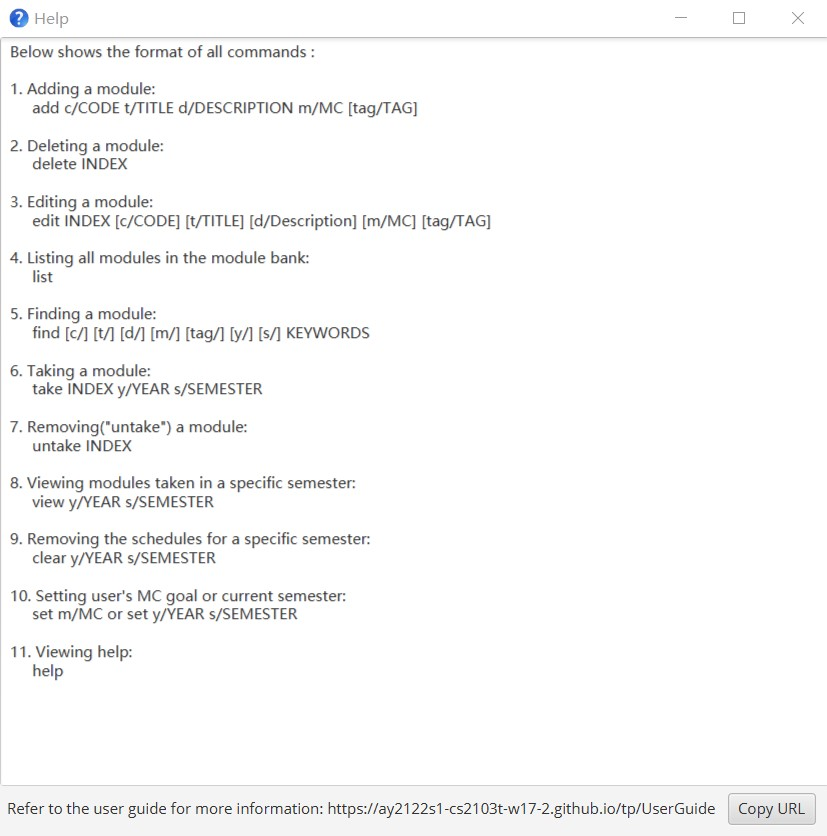
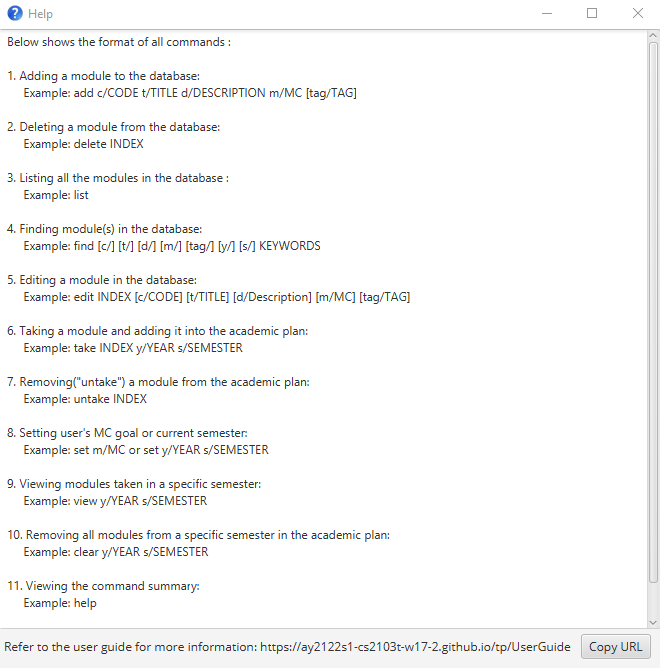
Update UG for submission

diff --git a/src/main/java/seedu/tracker/ui/HelpWindow.java b/src/main/java/seedu/tracker/ui/HelpWindow.java
@@ -19,32 +19,34 @@ import seedu.tracker.commons.core.LogsCenter;
  */
 public class HelpWindow extends UiPart<Stage> {
 
-    public static final String ADD_COMMAND = "Adding a module:\n     add c/CODE t/TITLE d/DESCRIPTION m/MC [tag/TAG]";
-    public static final String CLEAR_COMMAND = "Removing the schedules for a specific semester:\n     "
-            + "clear y/YEAR s/SEMESTER";
+    public static final String ADD_COMMAND = "Adding a module to the database:\n     Example: add c/CODE t/TITLE d/DESCRIPTION m/MC [tag/TAG]";
+    public static final String CLEAR_COMMAND = "Removing all modules from a specific semester in the academic plan:\n     "
+            + "Example: clear y/YEAR s/SEMESTER";
     public static final String COMMAND_FORMAT = "Below shows the format of all commands : ";
-    public static final String DELETE_COMMAND = "Deleting a module:\n     delete INDEX";
-    public static final String EDIT_COMMAND = "Editing a module:\n     "
-            + "edit INDEX [c/CODE] [t/TITLE] [d/Description] [m/MC] [tag/TAG]";
-    public static final String FIND_COMMAND = "Finding a module:\n     "
-            + "find [c/] [t/] [d/] [m/] [tag/] [y/] [s/] KEYWORDS";
-    public static final String HELP_COMMAND = "Viewing help:\n     help";
+    public static final String DELETE_COMMAND = "Deleting a module from the database:\n     Example: delete INDEX";
+    public static final String EDIT_COMMAND = "Editing a module in the database:\n     "
+            + "Example: edit INDEX [c/CODE] [t/TITLE] [d/Description] [m/MC] [tag/TAG]";
+    public static final String FIND_COMMAND = "Finding module(s) in the database:\n     "
+            + "Example: find [c/] [t/] [d/] [m/] [tag/] [y/] [s/] KEYWORDS";
+    public static final String HELP_COMMAND = "Viewing the command summary:\n     Example: help";
+    public static final String EXIT_COMMAND = "Exiting NUS Mod Tracker:\n     Example: exit";
     public static final String USERGUIDE_URL =
             "https://ay2122s1-cs2103t-w17-2.github.io/tp/UserGuide";
     public static final String HELP_MESSAGE = "Refer to the user guide for more information: " + USERGUIDE_URL;
-    public static final String LIST_COMMAND = "Listing all modules in the module bank:\n     list";
+    public static final String LIST_COMMAND = "Listing all the modules in the database :\n     Example: list";
     public static final String SET_COMMAND = "Setting user's MC goal or current semester:\n     "
-            + "set m/MC or set y/YEAR s/SEMESTER";
-    public static final String TAKE_COMMAND = "Taking a module:\n     take INDEX y/YEAR s/SEMESTER";
-    public static final String UNTAKE_COMMAND = "Removing(\"untake\") a module:\n     untake INDEX";
+            + "Example: set m/MC or set y/YEAR s/SEMESTER";
+    public static final String TAKE_COMMAND = "Taking a module and adding it into the academic plan:\n     Example: take INDEX y/YEAR s/SEMESTER";
+    public static final String UNTAKE_COMMAND = "Removing(\"untake\") a module from the academic plan:\n     Example: untake INDEX";
     public static final String VIEW_COMMAND = "Viewing modules taken in a specific semester:\n     "
-            + "view y/YEAR s/SEMESTER";
+            + "Example: view y/YEAR s/SEMESTER";
     private static final Logger logger = LogsCenter.getLogger(HelpWindow.class);
     private static final String FXML = "HelpWindow.fxml";
 
-    private static final List<String> commandList = Collections.unmodifiableList(Arrays.asList(ADD_COMMAND,
-            DELETE_COMMAND, EDIT_COMMAND, LIST_COMMAND, FIND_COMMAND,
-            TAKE_COMMAND, UNTAKE_COMMAND, VIEW_COMMAND, CLEAR_COMMAND, SET_COMMAND, HELP_COMMAND));
+    private static final List<String> commandList = Collections.unmodifiableList(Arrays.asList(
+            ADD_COMMAND, DELETE_COMMAND, LIST_COMMAND, FIND_COMMAND, EDIT_COMMAND,
+            TAKE_COMMAND, UNTAKE_COMMAND, SET_COMMAND, VIEW_COMMAND, CLEAR_COMMAND,
+            HELP_COMMAND, EXIT_COMMAND));
 
 
     @FXML

diff --git a/docs/UserGuide.md b/docs/UserGuide.md
@@ -172,7 +172,7 @@ Here is an image of a module in our [database](#database)<br>
 ![Module Explanation](images/ModuleExplanation.png)
 
 A module is made up of 6 **components**:
-1. An index in the database
+1. An [index](#index) in the database
 1. A module [code](#code) number
 1. A [title](#title) 
 1. A [description](#description) of the module
